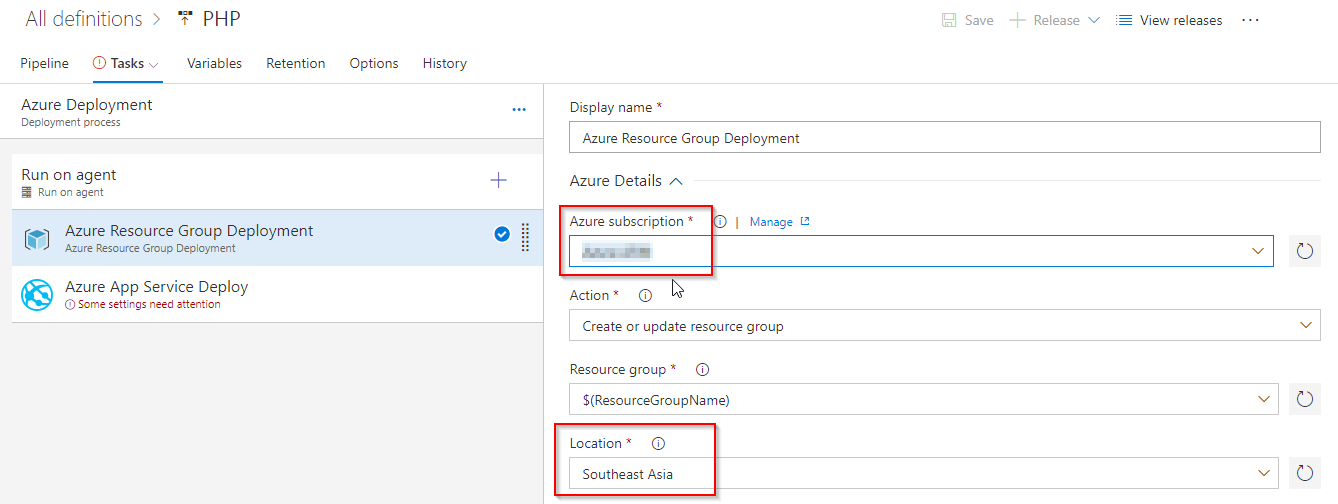
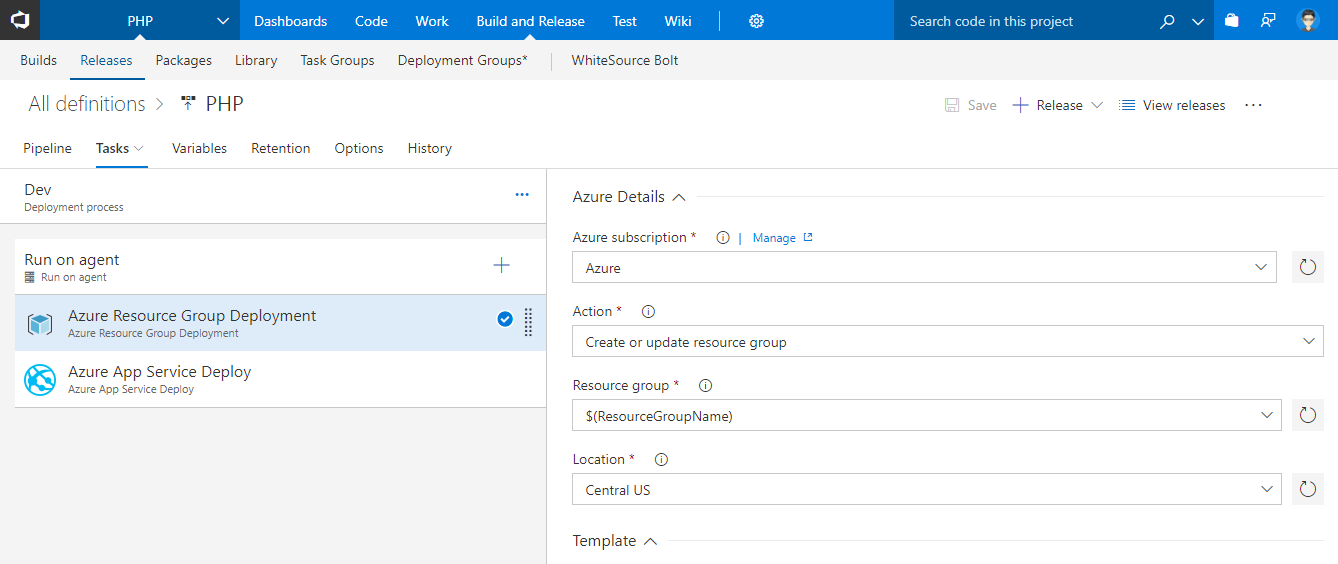
updating images

diff --git a/php/readme.md b/php/readme.md
@@ -49,18 +49,17 @@ We will use ARM template as **Infrastructure as a Code**  in the release definit
    <img src="images/release_def.png"> 
  
 
-2. Go to **Tasks** and select **Azure Deployment** environment.
+2. Go to **Tasks** and select **Dev** environment.
 
    <img src="images/dev_release.png"> 
 
 3. Under **Azure Resource Group Deployment** task, update **Azure subscription** and **Location**.
 
-   <img src="images/azure_sub.png"> 
+   <img src="images/azure_sub.png">
 
 4. Under **Azure App Service Deploy** task, update **Azure subscription** and click **Save**.
 
-   <img src="images/azure_app_service.png"> 
-
+   <img src="images/azure_app_service.png">
 
 
    <table width="100%">
